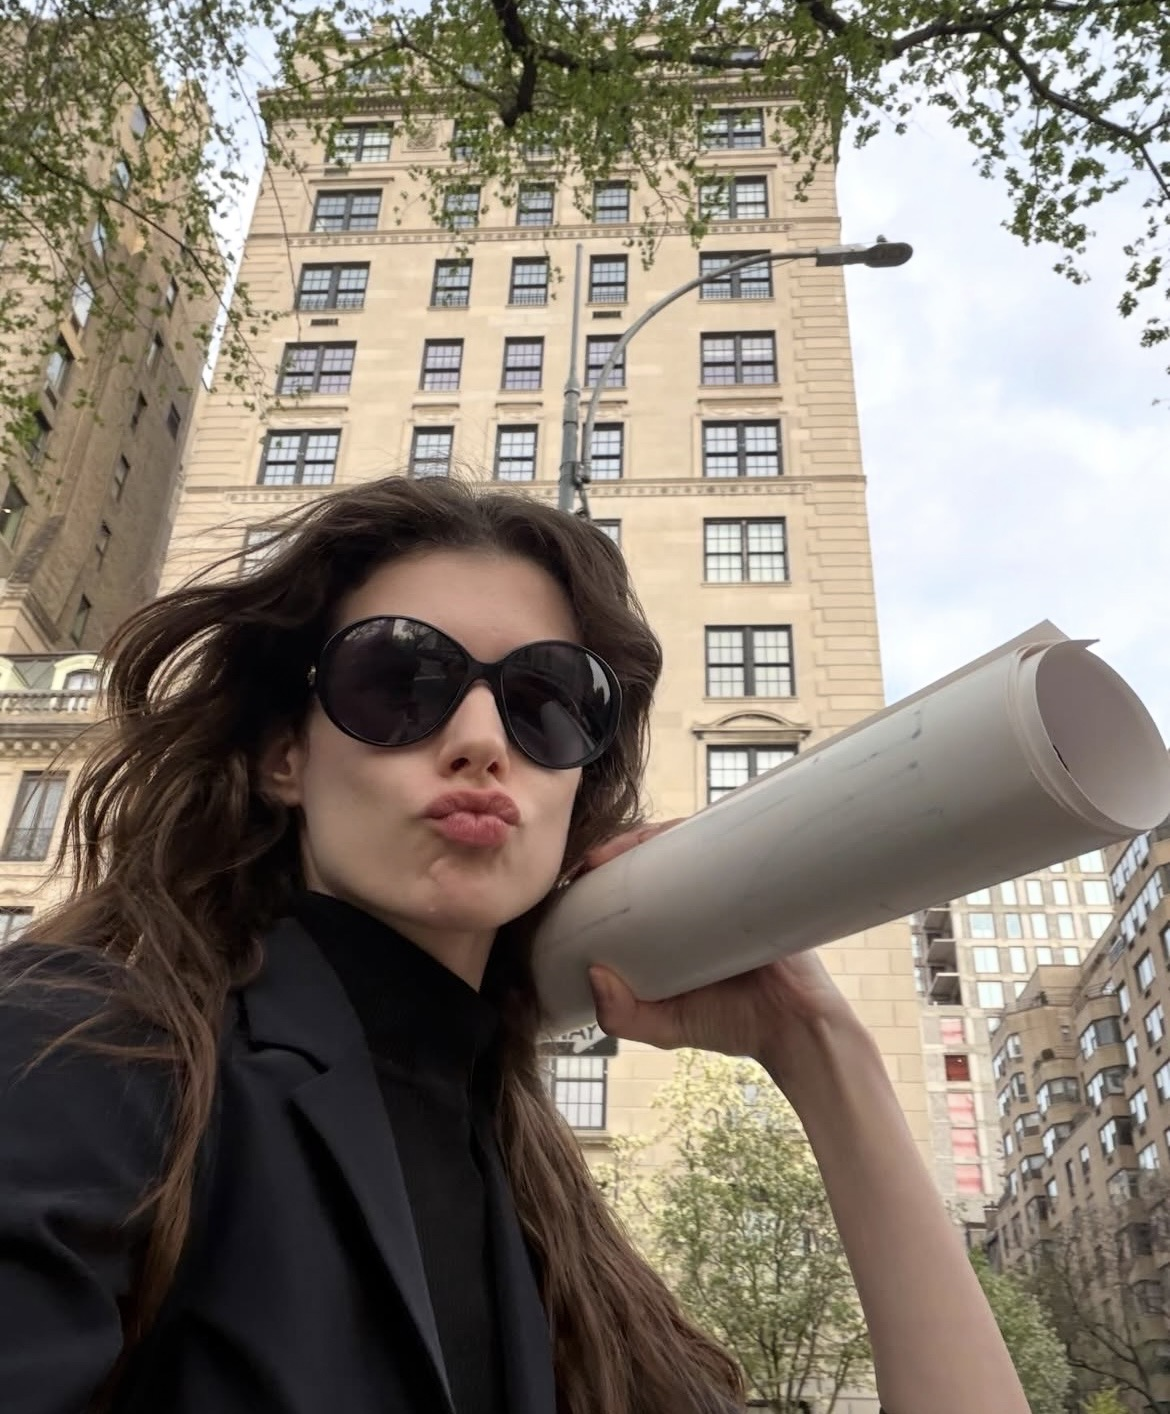
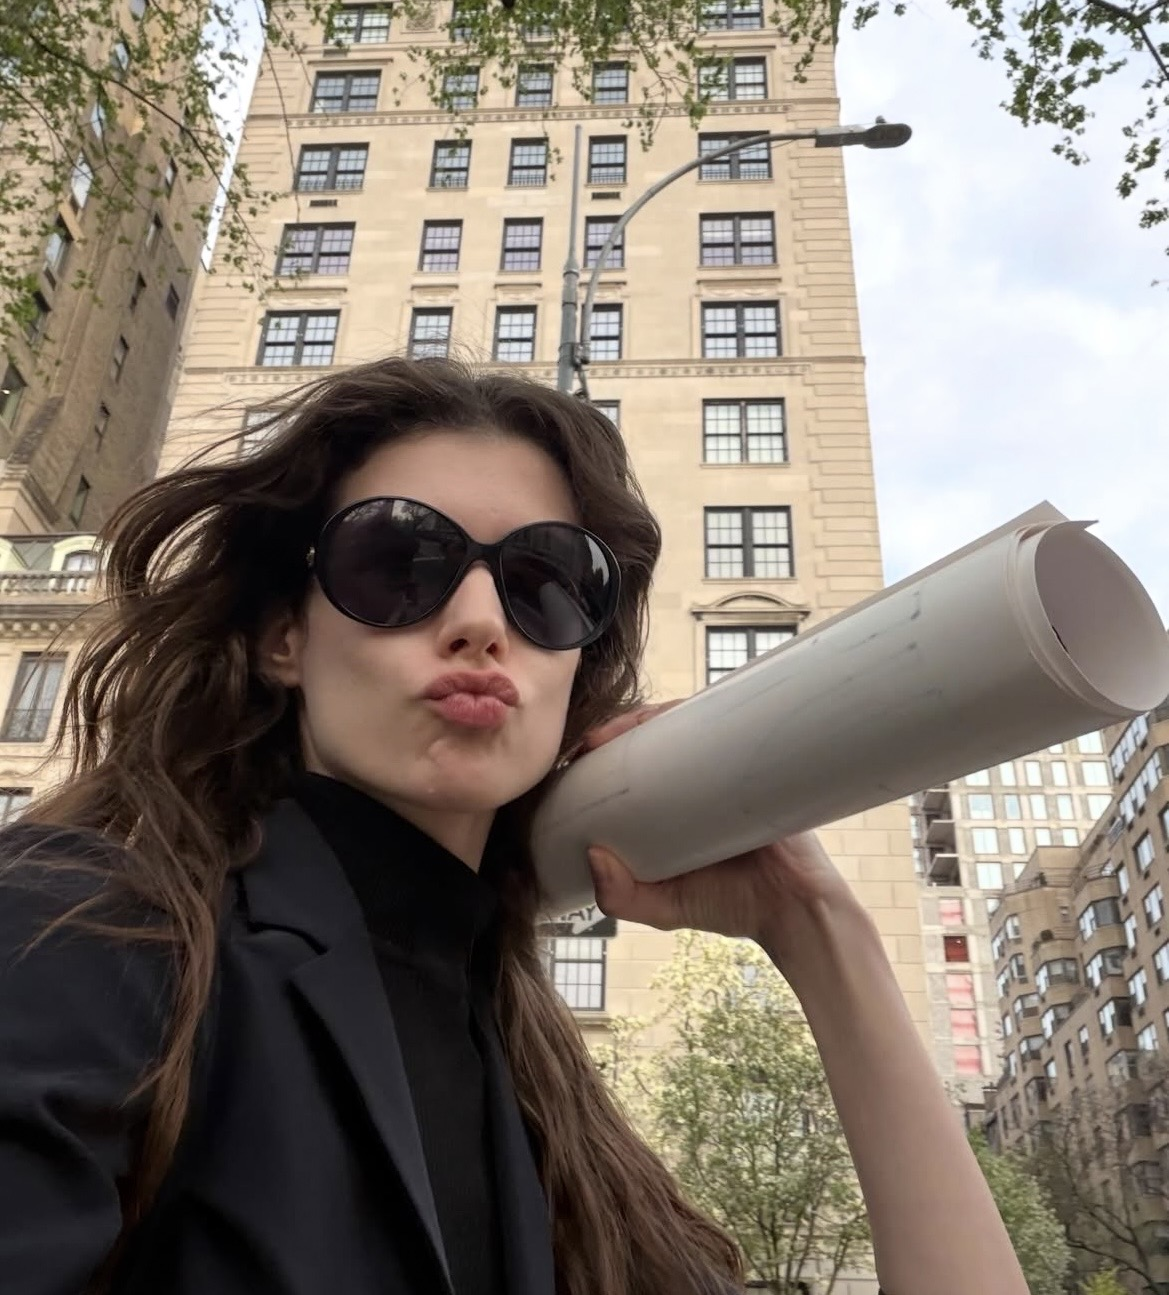
Serve category covers from images/ instead of Vercel file storage
The For Him / For Her / Unisex / Accessories / Places tiles loaded their
photos from Vercel Blob storage, so closing the Vercel account would have
left them blank. The five live images are now in images/, under the names
images/README.txt already set out, and css/style.css points at them.

- cover-him, cover-her and cover-places replace older, different versions
  that were in the repo but unused (the CSS had moved to the Vercel copies).
- cover-unisex is new; there was no local copy.
- cover-accessories was already byte-identical and is unchanged.

Each download was checked before it went in: a valid JPEG at exactly the
size Vercel reported. Tile fallback colours and the Unisex crop position
are kept. The notification icon in sw.js uses cover-places.jpg, so it
picks up the current photo too.

Verified from the dist/ build Cloudflare will publish: all five tiles
resolve to /images/cover-*.jpg and decode at full size, and the page makes
no requests to vercel-storage.

diff --git a/css/style.css b/css/style.css
@@ -883,11 +883,11 @@ textarea { resize: vertical; min-height: 70px; }
 .section-accessories { background-position: center 54%; }
 .section-places { background-position: center 22%; }
 
-.section-him { background-color: #1B1B18; background-image: url('https://hebbkx1anhila5yf.public.blob.vercel-storage.com/him-xFLXFiu6CcSaZz60PXniAxMSi2z0Vu.jpg'); }
- .section-her { background-color: #6B4A3A; background-image: url('https://hebbkx1anhila5yf.public.blob.vercel-storage.com/her-W5sjWkhHOHm4IgMsMngIBTrjn9inHg.jpg'); }
- .section-unisex { background-color: #2A2E24; background-image: url('https://hebbkx1anhila5yf.public.blob.vercel-storage.com/IMG_4091-SV1exwiChuZWJzuibN5Vk83xz3GXov.jpg'); background-position: center 44%; }
- .section-accessories { background-color: #3A2E2A; background-image: url('https://hebbkx1anhila5yf.public.blob.vercel-storage.com/accesories-qqE1opo7Nier9DgWELfNnf4F4xtiTc.jpg'); }
- .section-places { background-color: #223035; background-image: url('https://hebbkx1anhila5yf.public.blob.vercel-storage.com/place-dXV2Q6URIISgYMoaqdkpV19A2eby4e.jpg'); }
+.section-him { background-color: #1B1B18; background-image: url('../images/cover-him.jpg'); }
+ .section-her { background-color: #6B4A3A; background-image: url('../images/cover-her.jpg'); }
+ .section-unisex { background-color: #2A2E24; background-image: url('../images/cover-unisex.jpg'); background-position: center 44%; }
+ .section-accessories { background-color: #3A2E2A; background-image: url('../images/cover-accessories.jpg'); }
+ .section-places { background-color: #223035; background-image: url('../images/cover-places.jpg'); }
 
 .section-label {
   position: relative;

diff --git a/CLOUDFLARE.md b/CLOUDFLARE.md
@@ -93,7 +93,6 @@ done from here.
    message-notification webhook (`public.notify_message_webhook()`), which
    currently calls the Vercel address.
 8. **Update the Instagram bio link** to `https://<your-address>/?feed=1`.
-9. **Category cover images** (For Him, For Her, Unisex, Accessories, Places)
-   are hosted on Vercel's file storage — see `css/style.css`. Move them into
-   `images/` before closing the Vercel account.
+9. ~~Category cover images~~ — done: the five covers were copied from Vercel's
+   file storage into `images/`, so nothing on the site depends on Vercel.
 10. Once everything checks out, the Vercel project and the `api/` folder can go.
